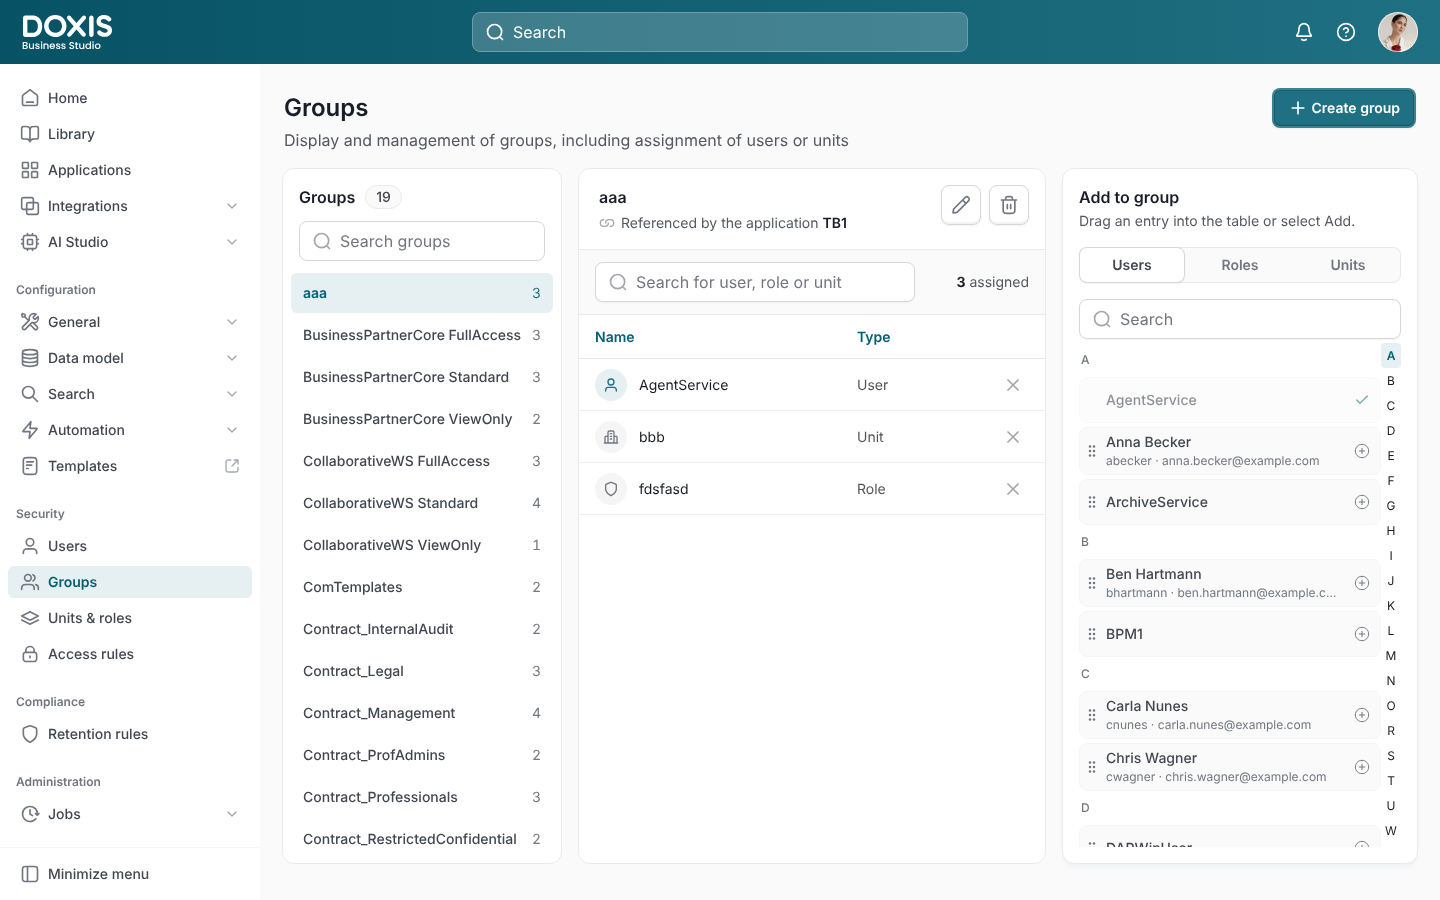
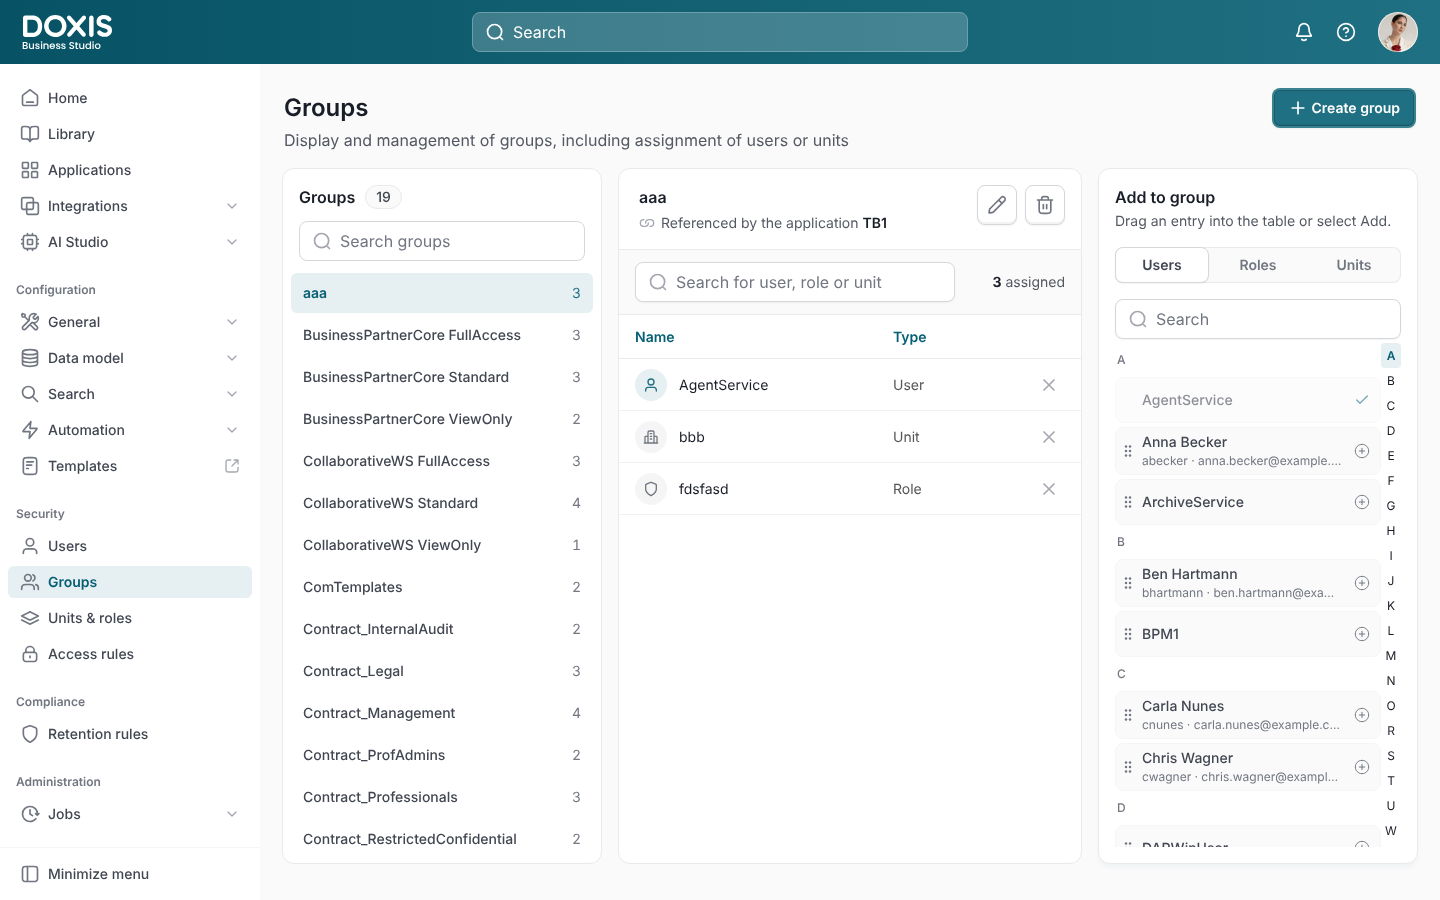
Add files via upload

diff --git a/css/styles.css b/css/styles.css
@@ -379,7 +379,7 @@ a { color: var(--brand-dark); }
 .page-title h1 { margin: 4px 0 0; font-size: 24px; line-height: 32px; font-weight: 600; }
 .page-title p { margin: 0; color: var(--fg-secondary); font-size: 16px; line-height: 24px; }
 
-.groups-layout { display: grid; grid-template-columns: 280px minmax(0, 1fr) 356px; gap: 16px; height: max(560px, calc(100vh - var(--topbar-h) - 140px)); }
+.groups-layout { display: grid; grid-template-columns: 320px minmax(0, 1fr) 320px; gap: 16px; height: max(560px, calc(100vh - var(--topbar-h) - 140px)); }
 .groups-layout > .card { display: flex; flex-direction: column; min-height: 0; overflow: hidden; }
 .g-head { display: flex; align-items: center; gap: 8px; padding: 16px 16px 12px; }
 .g-head h2 { margin: 0; font-size: 16px; line-height: 24px; font-weight: 600; }
@@ -499,7 +499,7 @@ a { color: var(--brand-dark); }
 .btn-danger { background: #D92D20; color: #FFFFFF; border: 2px solid rgba(255,255,255,0.12); box-shadow: var(--shadow-btn); }
 .btn-danger:hover { background: #B42318; }
 
-@media (max-width: 1280px) { .groups-layout { grid-template-columns: 240px minmax(0, 1fr) 320px; } }
+@media (max-width: 1280px) { .groups-layout { grid-template-columns: 280px minmax(0, 1fr) 280px; } }
 @media (max-width: 900px) {
   .groups-layout { grid-template-columns: minmax(0, 1fr); height: auto; }
   .g-list .g-items { max-height: 240px; }

diff --git a/groups-large.html b/groups-large.html
@@ -9,16 +9,16 @@
   <link rel="preconnect" href="https://fonts.googleapis.com">
   <link rel="preconnect" href="https://fonts.gstatic.com" crossorigin>
   <link href="https://fonts.googleapis.com/css2?family=Inter:wght@400;500;600;700&family=Figtree:wght@400;500;600&family=Poppins:wght@500&display=swap" rel="stylesheet">
-  <link rel="stylesheet" href="css/styles.css?v=20261120b">
+  <link rel="stylesheet" href="css/styles.css?v=20261120c">
 </head>
 <body>
   <div id="app"></div>
   <noscript>This prototype needs JavaScript.</noscript>
   <script>window.PAGE = 'Groups'; window.ORG_SIZE = 'large';</script>
-  <script src="js/icons.js?v=20261120b"></script>
-  <script src="js/data.js?v=20261120b"></script>
+  <script src="js/icons.js?v=20261120c"></script>
+  <script src="js/data.js?v=20261120c"></script>
   <script>window.NAV_LINKS.Groups = 'groups-large.html';</script>
-  <script src="js/groups-data.js?v=20261120b"></script>
-  <script src="js/groups.js?v=20261120b"></script>
+  <script src="js/groups-data.js?v=20261120c"></script>
+  <script src="js/groups.js?v=20261120c"></script>
 </body>
 </html>

diff --git a/groups.html b/groups.html
@@ -9,15 +9,15 @@
   <link rel="preconnect" href="https://fonts.googleapis.com">
   <link rel="preconnect" href="https://fonts.gstatic.com" crossorigin>
   <link href="https://fonts.googleapis.com/css2?family=Inter:wght@400;500;600;700&family=Figtree:wght@400;500;600&family=Poppins:wght@500&display=swap" rel="stylesheet">
-  <link rel="stylesheet" href="css/styles.css?v=20261120b">
+  <link rel="stylesheet" href="css/styles.css?v=20261120c">
 </head>
 <body>
   <div id="app"></div>
   <noscript>This prototype needs JavaScript.</noscript>
   <script>window.PAGE = 'Groups';</script>
-  <script src="js/icons.js?v=20261120b"></script>
-  <script src="js/data.js?v=20261120b"></script>
-  <script src="js/groups-data.js?v=20261120b"></script>
-  <script src="js/groups.js?v=20261120b"></script>
+  <script src="js/icons.js?v=20261120c"></script>
+  <script src="js/data.js?v=20261120c"></script>
+  <script src="js/groups-data.js?v=20261120c"></script>
+  <script src="js/groups.js?v=20261120c"></script>
 </body>
 </html>

diff --git a/index.html b/index.html
@@ -9,14 +9,14 @@
   <link rel="preconnect" href="https://fonts.googleapis.com">
   <link rel="preconnect" href="https://fonts.gstatic.com" crossorigin>
   <link href="https://fonts.googleapis.com/css2?family=Inter:wght@400;500;600;700&family=Figtree:wght@400;500;600&family=Poppins:wght@500&display=swap" rel="stylesheet">
-  <link rel="stylesheet" href="css/styles.css?v=20261120b">
+  <link rel="stylesheet" href="css/styles.css?v=20261120c">
 </head>
 <body>
   <div id="app"></div>
   <noscript>This prototype needs JavaScript.</noscript>
   <script>window.PAGE = 'Agents';</script>
-  <script src="js/icons.js?v=20261120b"></script>
-  <script src="js/data.js?v=20261120b"></script>
-  <script src="js/app.js?v=20261120b"></script>
+  <script src="js/icons.js?v=20261120c"></script>
+  <script src="js/data.js?v=20261120c"></script>
+  <script src="js/app.js?v=20261120c"></script>
 </body>
 </html>

diff --git a/README.md b/README.md
@@ -45,7 +45,7 @@ Alternative without Actions: set **Source** to **Deploy from a branch**, choose 
 ### Updating an existing repository
 
 Replace all files in the repository with the contents of this folder and push (or upload) again; the workflow redeploys automatically.
-`index.html` loads the CSS and JS with a version suffix (`?v=20261120b`). Change it when you edit those files so browsers don't keep an old cached copy.
+`index.html` loads the CSS and JS with a version suffix (`?v=20261120c`). Change it when you edit those files so browsers don't keep an old cached copy.
 
 ## Run it locally
 
